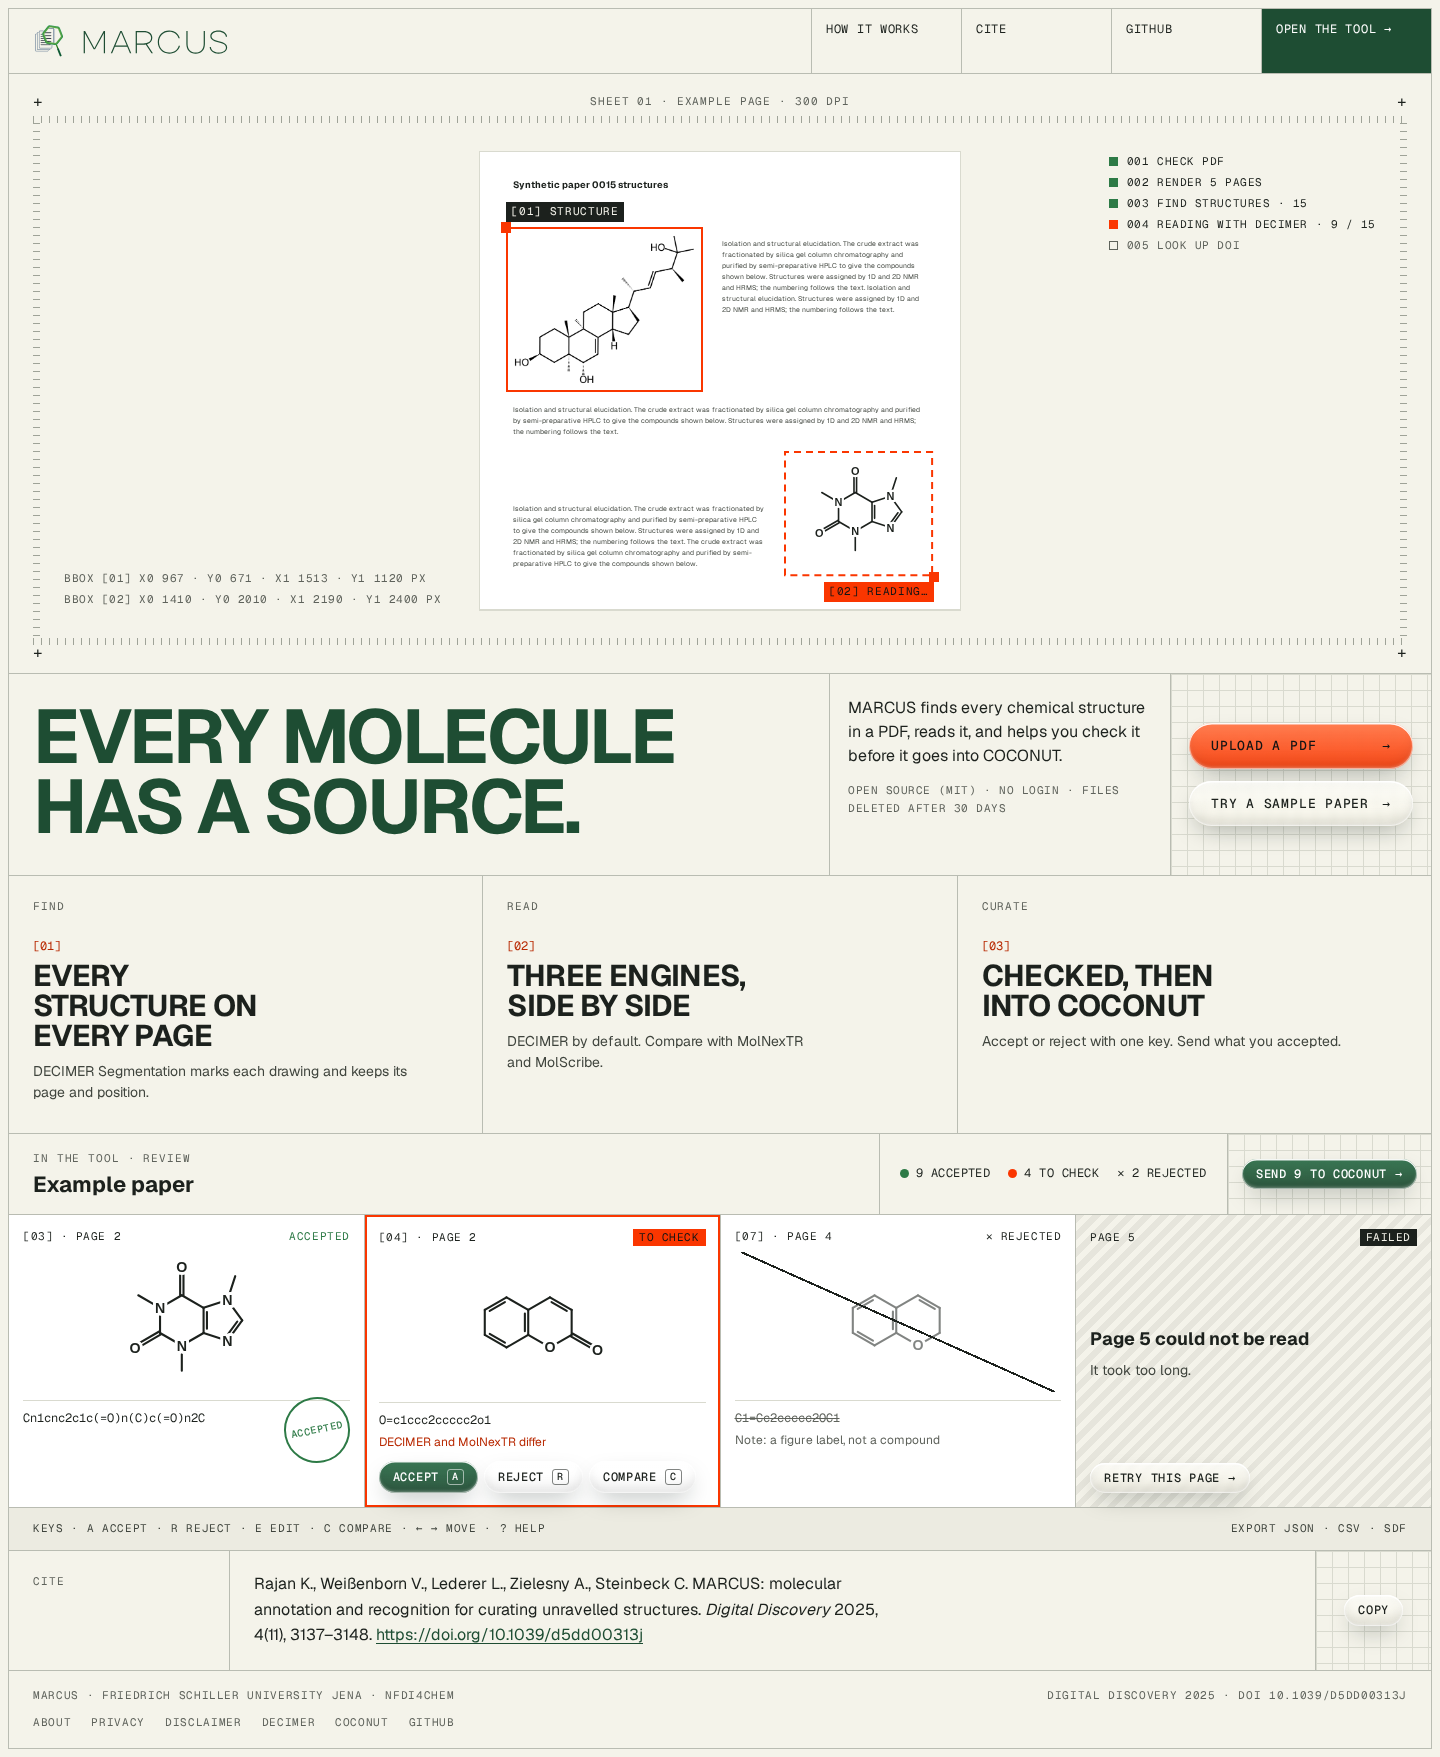
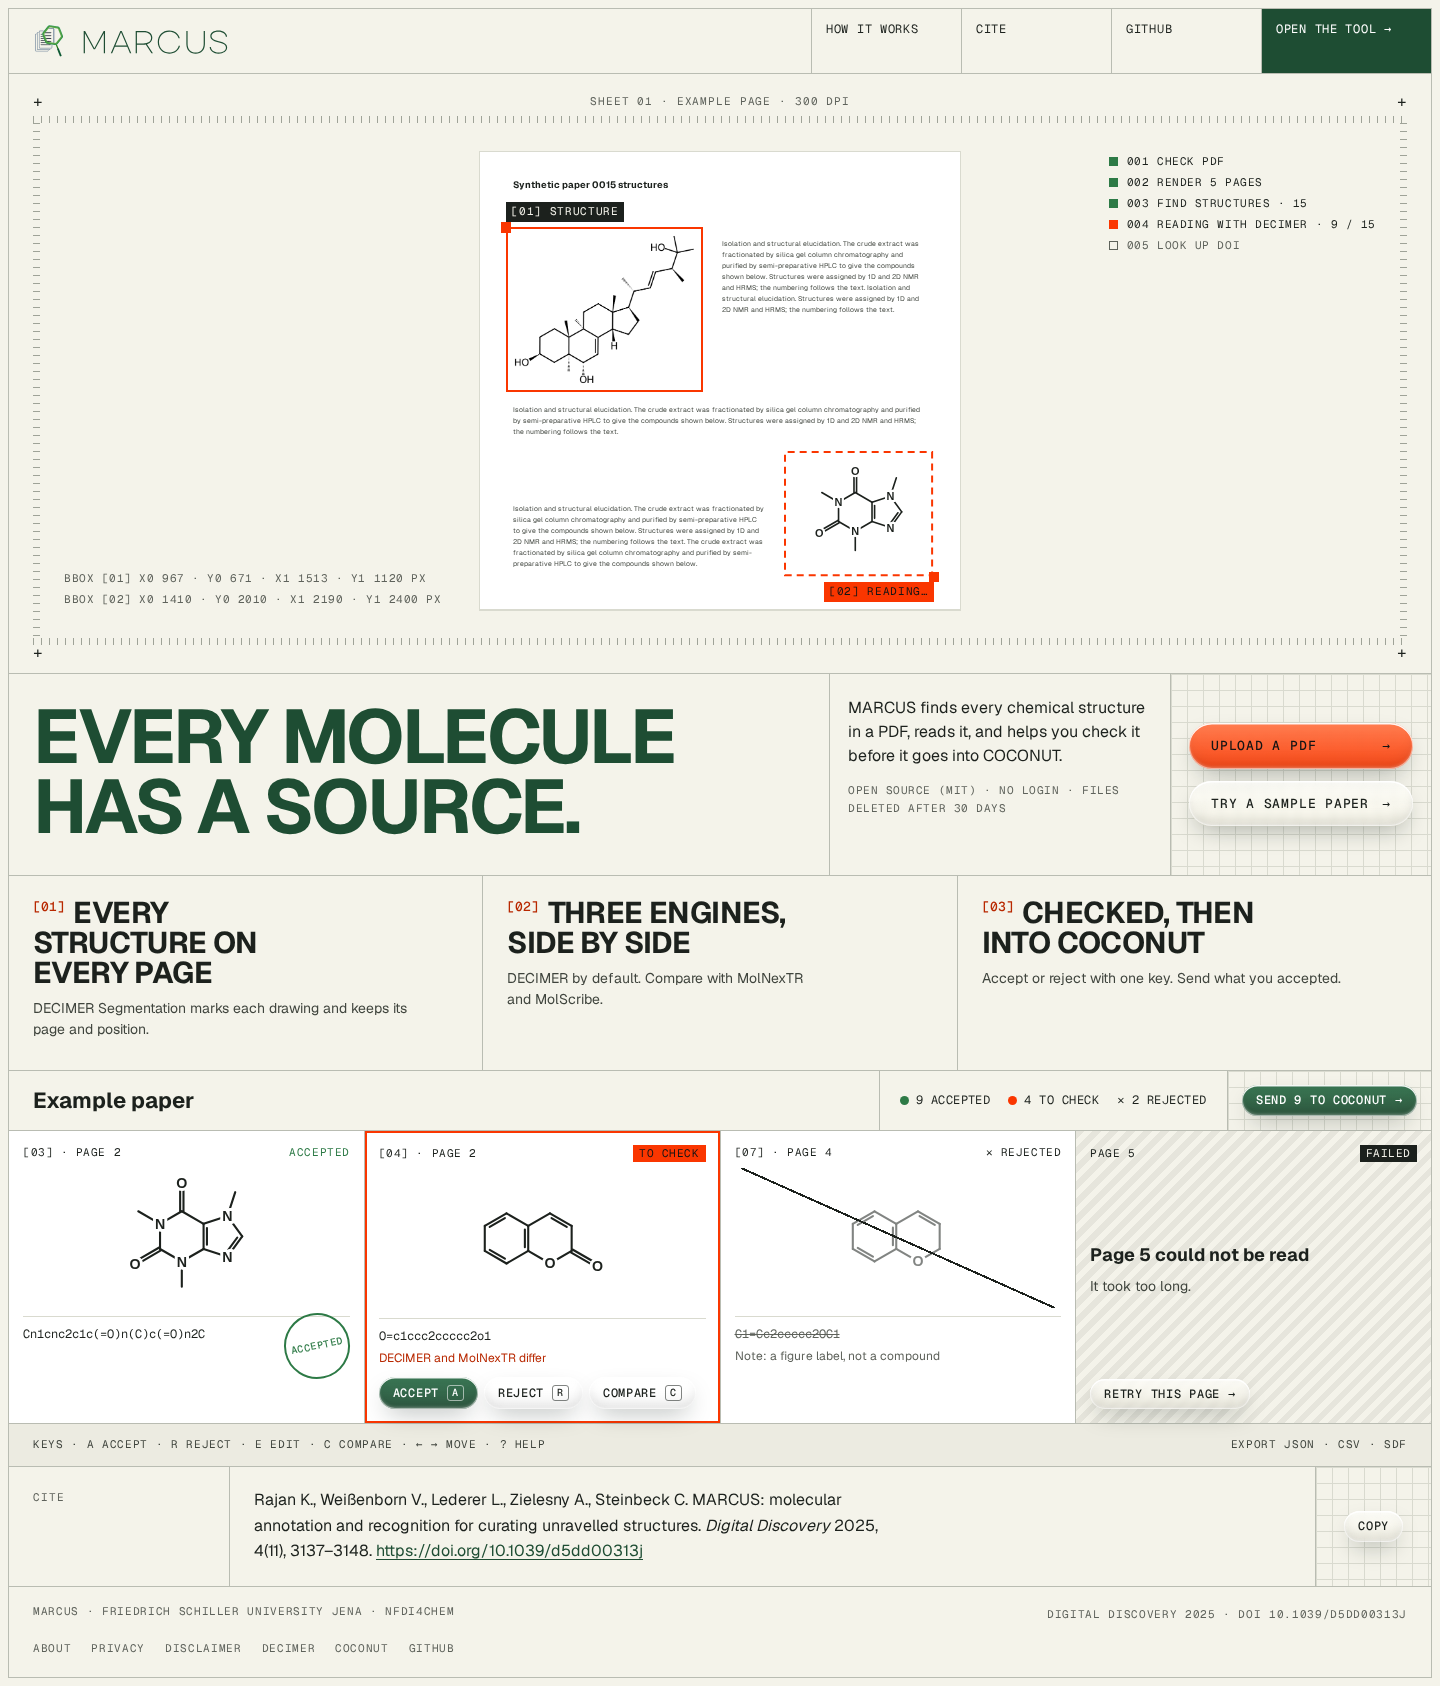
fix(frontend-v2): footer link targets on phones

diff --git a/frontend-v2/e2e/a11y.spec.ts b/frontend-v2/e2e/a11y.spec.ts
@@ -1,8 +1,9 @@
 // Accessibility sweep (F15), tagged @mocked: every API call is answered from e2e/fixtures/
 // (recorded from the fake stack, engines renamed to real ones), so it needs only the built UI
 // behind nginx (`npm run serve:local`), no stack: CI runs it. axe: 0 serious or critical
-// violations, light mode only, on each screen of the tool. The Ketcher frame is a third-party
-// page and is left out of the editor dialog's run.
+// violations, light mode only, on each screen of the tool (1440 px) and on the static pages at
+// phone width (390 px: the pages that must work on a phone, footer target sizes included). The
+// Ketcher frame is a third-party page and is left out of the editor dialog's run.
 import { readFileSync } from "node:fs";
 import { join } from "node:path";
 import { expect, test, type Page, type Route } from "@playwright/test";
@@ -155,4 +156,31 @@ test.describe("accessibility", { tag: "@mocked" }, () => {
     expect((await download).suggestedFilename()).toBe("Figure_2b-1.svg");
     await expect(page.getByText("Could not download the image")).toHaveCount(0);
   });
+});
+
+const WCAG_TAGS = ["wcag2a", "wcag2aa", "wcag21a", "wcag21aa", "wcag22aa", "best-practice"];
+
+// The pages a phone visitor reaches (the landing, the info pages, and /app's desktop-only
+// note), at 390 px: the footer links wrap there, so target size (2.5.8) is checked where it bites.
+test.describe("accessibility at phone width", { tag: "@mocked" }, () => {
+  let csp: () => Promise<string[]>;
+
+  test.beforeEach(async ({ page }) => {
+    csp = collectCspViolations(page);
+    await routeApi(page);
+    await page.setViewportSize({ width: 390, height: 844 });
+  });
+
+  test.afterEach(async () => {
+    expect(await csp()).toEqual([]);
+  });
+
+  for (const url of ["/", "/about/", "/privacy/", "/disclaimer/", "/app"]) {
+    test(`${url} at 390 px`, async ({ page }) => {
+      await page.goto(url);
+      await expect(page.getByRole("navigation", { name: "Footer" })).toBeVisible();
+      // WCAG 2.2 AA on: axe leaves target-size (2.5.8) off unless its tag is asked for.
+      await expectNoA11yViolations(page, { tags: WCAG_TAGS });
+    });
+  }
 });

diff --git a/frontend-v2/e2e/helpers.ts b/frontend-v2/e2e/helpers.ts
@@ -108,12 +108,14 @@ export async function uploadPaperViaApi(
 /**
  * Runs axe on the current page (light mode only); fails on any serious or critical violation.
  * `exclude`: CSS selectors axe leaves out (the Ketcher frame: a third-party editor page).
+ * `tags`: run only the rules with these tags (axe's default set leaves target-size off).
  */
 export async function expectNoA11yViolations(
   page: Page,
-  opts: { exclude?: string[] } = {},
+  opts: { exclude?: string[]; tags?: string[] } = {},
 ): Promise<void> {
   let axe = new AxeBuilder({ page });
+  if (opts.tags) axe = axe.withTags(opts.tags);
   for (const selector of opts.exclude ?? []) axe = axe.exclude(selector);
   const results = await axe.analyze();
   const bad = results.violations

diff --git a/frontend-v2/src/ui/ui.css b/frontend-v2/src/ui/ui.css
@@ -177,7 +177,12 @@
   gap: 4px 20px;
 }
 
+/* Each link is a 24 px tall target (WCAG 2.5.8): at phone width the links wrap onto two rows,
+   and 11 px text alone would leave them 18 px tall and 22 px apart. */
 .site-footer a {
+  display: inline-flex;
+  align-items: center;
+  min-height: 24px;
   color: var(--muted);
   text-decoration: none;
 }
